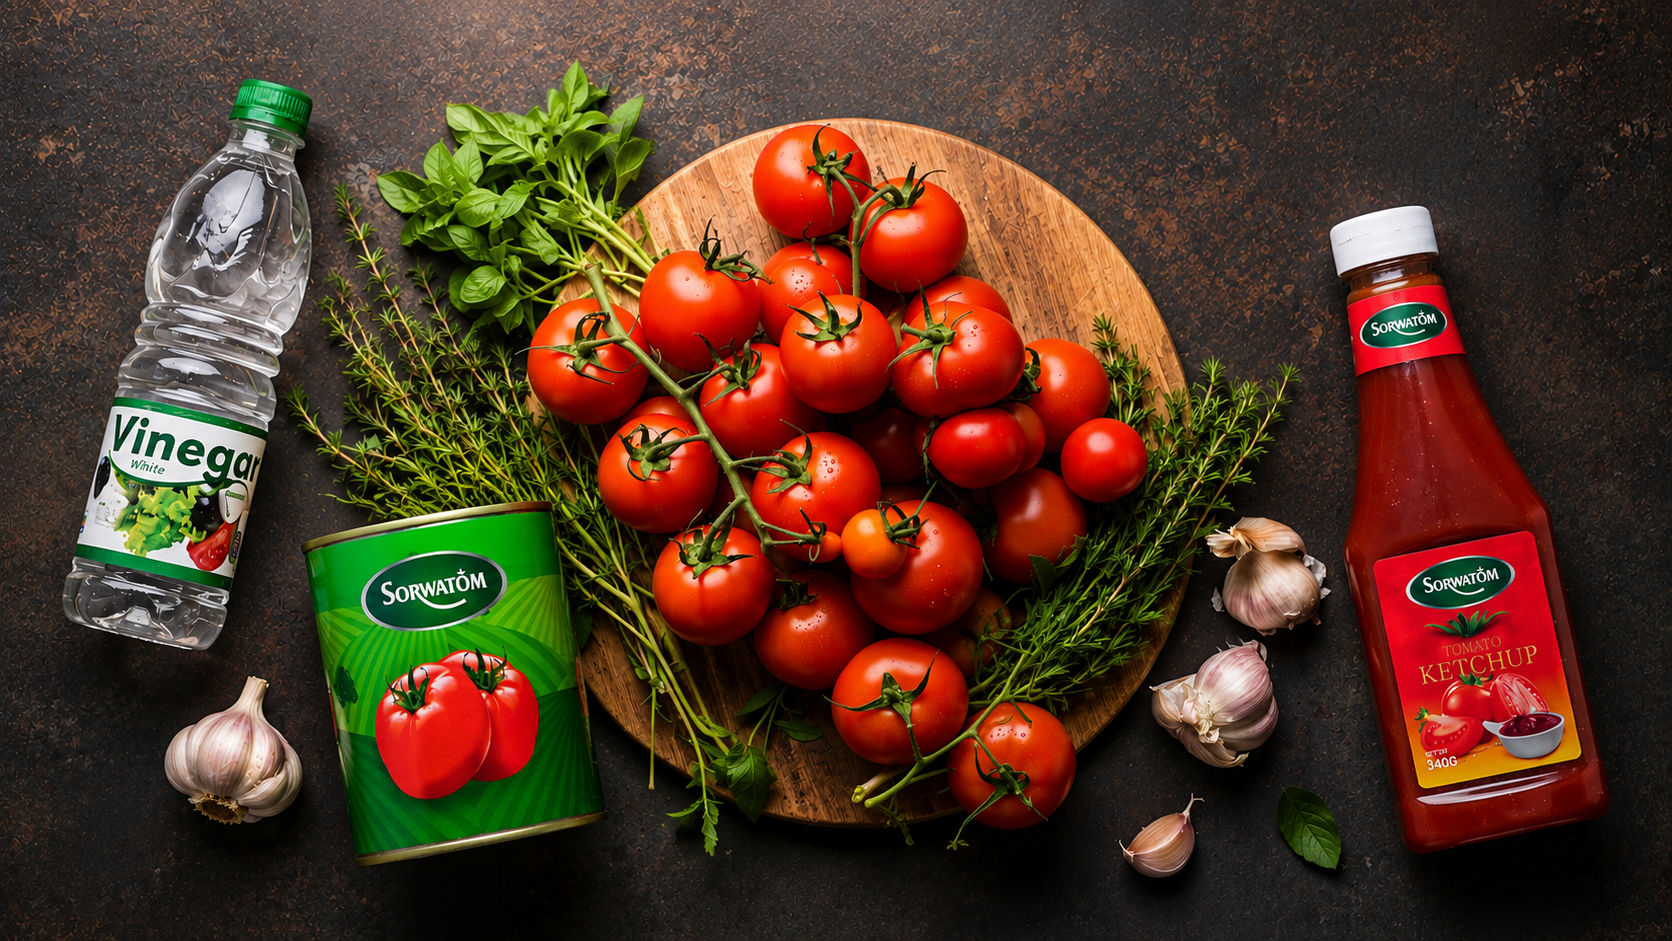
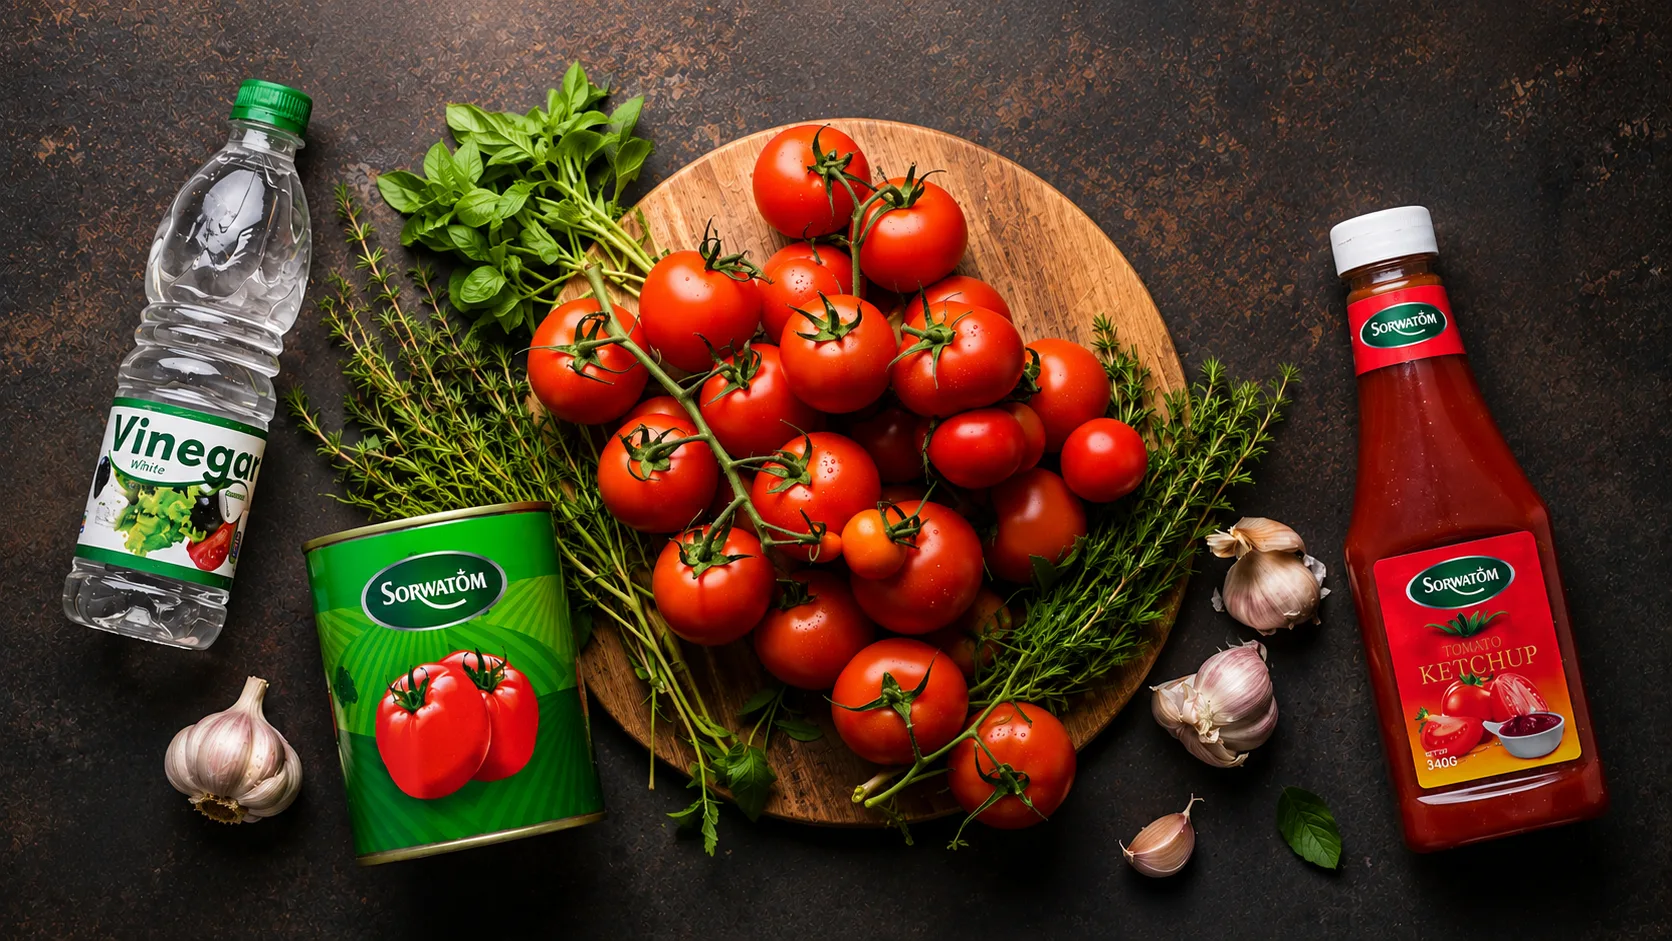
Massive reduction — from 2.4–3.1 MB down to 156–232 KB. Now update the <source> and preload hints to point to the new .webp mobile files.

diff --git a/contact.php b/contact.php
@@ -6,7 +6,7 @@ $page_js          = ['contact.js'];
 $body_class       = 'page-contact';
 $current_page     = 'contact';
 $hero_img         = 'contact-map';
-$hero_img_mobile  = 'contact-map.png';
+$hero_img_mobile  = 'contact-map.webp';
 include 'partials/_head.php';
 ?>
 
@@ -22,7 +22,7 @@ include 'partials/_head.php';
   <section class="hero hero--full" aria-label="Contact page introduction">
 
     <picture>
-      <source media="(max-width: 767px)" srcset="/assets/img/slider/Mobile/contact-map.png">
+      <source media="(max-width: 767px)" srcset="/assets/img/slider/Mobile/contact-map.webp" type="image/webp">
       <img class="hero__bg"
         src="/assets/img/slider/contact-map.webp"
         alt="" aria-hidden="true" fetchpriority="high" loading="eager" decoding="async">

diff --git a/index.php b/index.php
@@ -5,7 +5,7 @@ $page_css         = ['pages/home.css'];
 $body_class       = 'page-home';
 $current_page     = 'home';
 $hero_img         = 'hero-tomato';
-$hero_img_mobile  = 'hero_tomato.png';
+$hero_img_mobile  = 'hero_tomato.webp';
 include 'partials/_head.php';
 ?>
 <body class="<?= $body_class ?>">
@@ -21,7 +21,7 @@ include 'partials/_head.php';
 
     <!-- Decorative hero background -->
     <picture>
-      <source media="(max-width: 767px)" srcset="/assets/img/slider/Mobile/hero_tomato.png">
+      <source media="(max-width: 767px)" srcset="/assets/img/slider/Mobile/hero_tomato.webp" type="image/webp">
       <img class="hero__bg"
         src="/assets/img/slider/hero-tomato.webp"
         alt="" aria-hidden="true" fetchpriority="high" loading="eager" decoding="async">

diff --git a/products.php b/products.php
@@ -6,7 +6,7 @@ $body_class       = 'page-products';
 $current_page     = 'products';
 $page_js          = [];
 $hero_img         = 'collection-flatlay';
-$hero_img_mobile  = 'collection-flatlay.png';
+$hero_img_mobile  = 'collection-flatlay.webp';
 include 'partials/_head.php';
 ?>
 <body class="<?= htmlspecialchars($body_class) ?>">
@@ -20,7 +20,7 @@ include 'partials/_head.php';
        ============================================================ -->
   <section class="hero hero--full" aria-label="Page introduction">
     <picture>
-      <source media="(max-width: 767px)" srcset="/assets/img/slider/Mobile/collection-flatlay.png">
+      <source media="(max-width: 767px)" srcset="/assets/img/slider/Mobile/collection-flatlay.webp" type="image/webp">
       <img class="hero__bg"
         src="/assets/img/slider/collection-flatlay.webp"
         alt="" aria-hidden="true" fetchpriority="high" loading="eager" decoding="async">